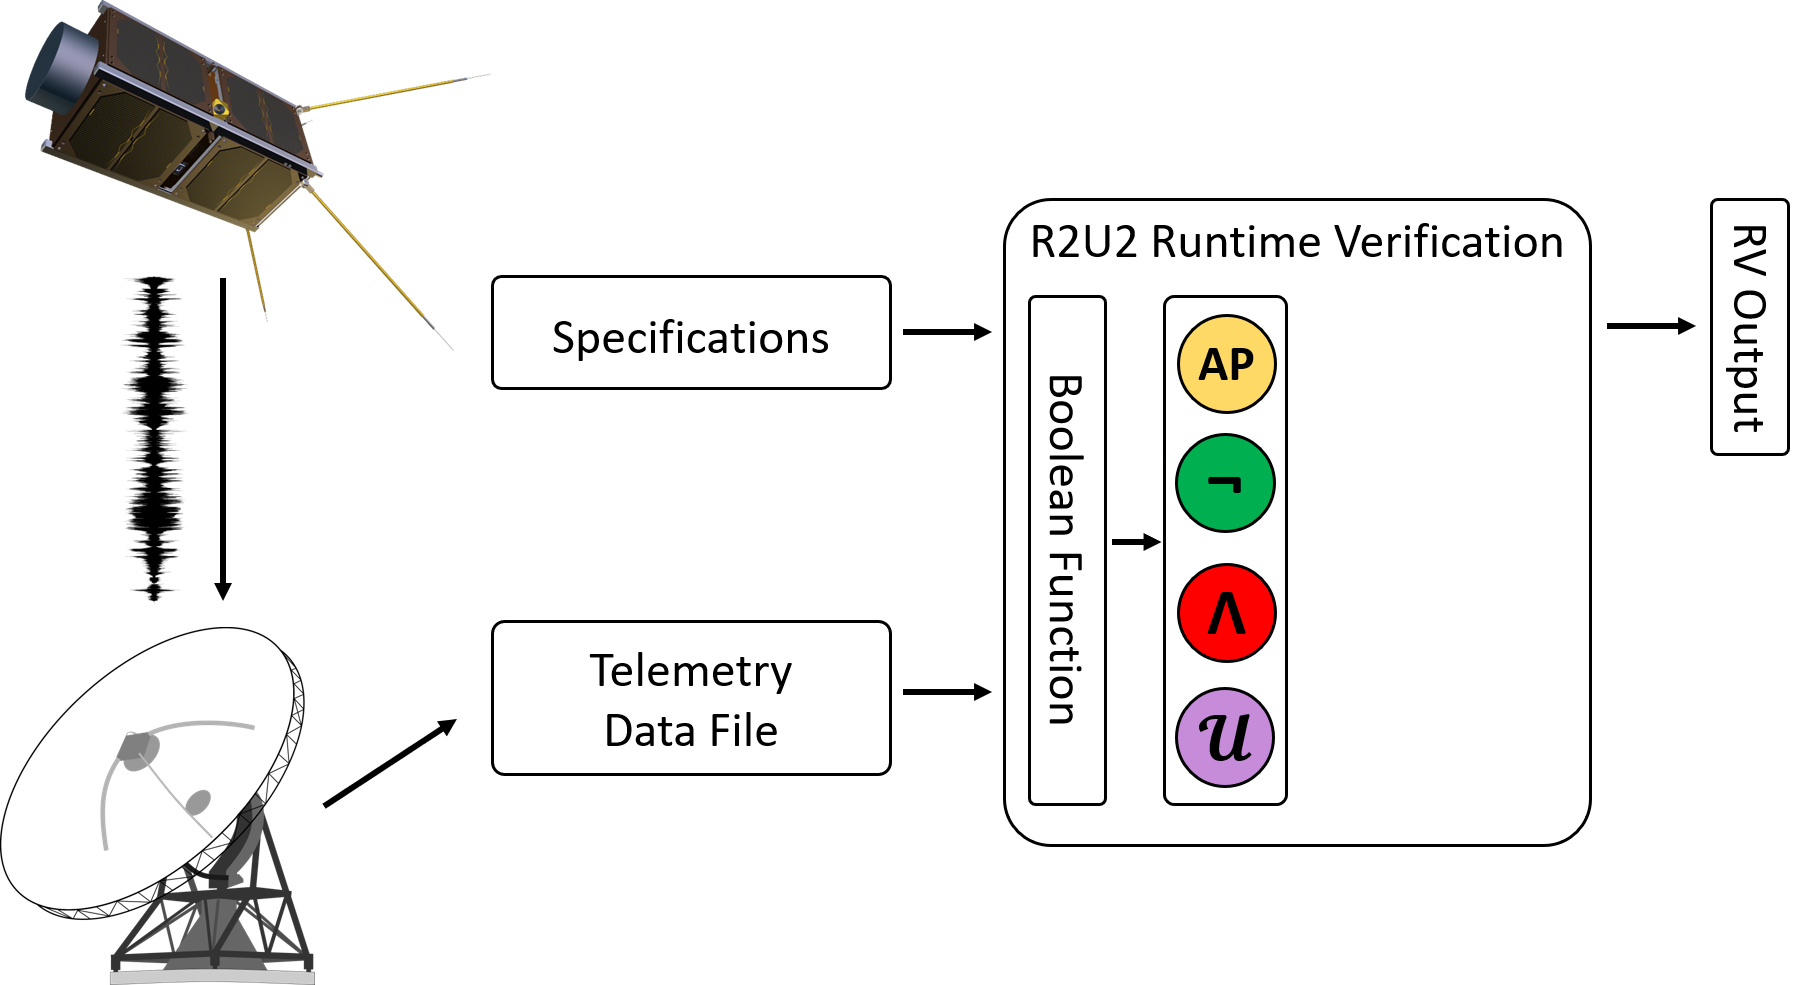
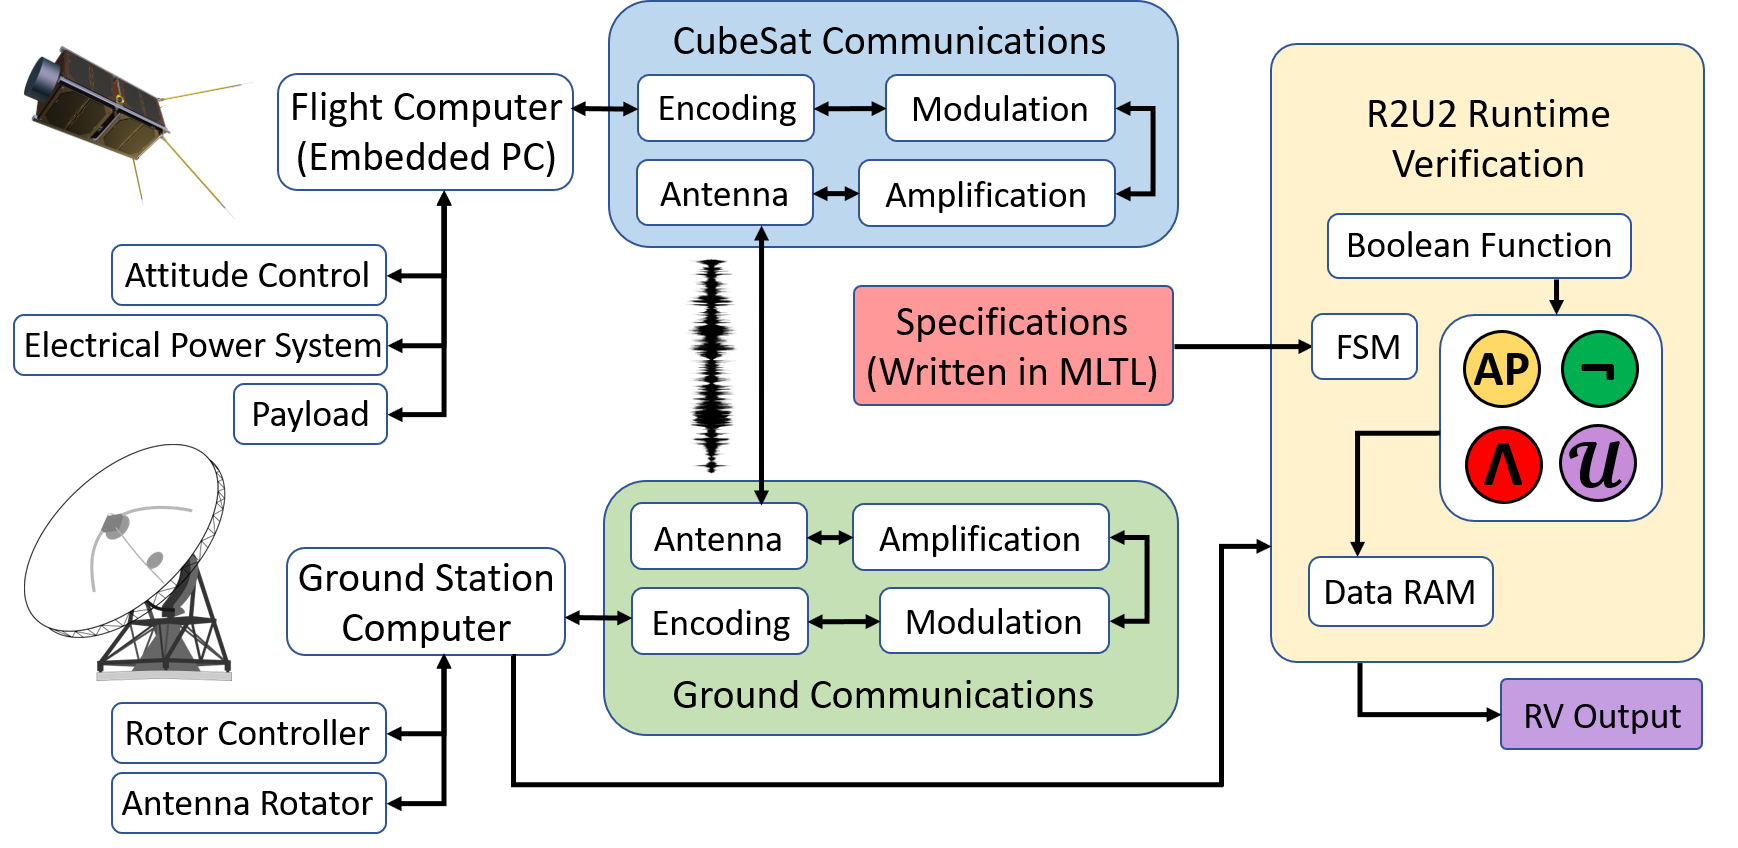
Updating abstract with introductory paragraphs and new figure.

diff --git a/main.tex b/main.tex
@@ -9,7 +9,7 @@
 \usepackage{longtable,tabularx}
 \setlength\LTleft{0pt} 
 
-\title{Formal Specification of Small Satellite Telemetry Variables}
+\title{A Case Study in Formal Specification and Runtime Verification of a CubeSat Communications System}
 
 \author{Zachary A. Luppen \footnote{Ph.D. student, Aerospace Engineering, Iowa State University, Ames, IA, 50010, USA.}}
 %\affil{Iowa State University, Ames, Iowa, 50011, USA.}
@@ -18,32 +18,17 @@
 \author{Dae Young Lee \footnote{Assistant Professor, Aerospace Engineering, Iowa State University, Ames, IA, 50010, USA.}}
 \affil{Iowa State University, Ames, Iowa, 50011, USA.}
 
-%% Outline
-
-%% Introduction
-% Discuss CubeSat challenges.
-% Importance of system health monitoring.
-% Introduce formal methods.
-
-%% Analysis
-% Provide a generic description of CubeSat telemetry parameters.
-% Talk about specifying parameters.
-% Describe how data is collected from CubeSat, decoded, saved.
-% Detail how we can run this through R2U2 to better understand performance.
-
-%% Discussion
-% Analysis of telemetry data can help us better monitor system health. Understand faults.
-% During testing, can help diagnose potential problems and validate system performance.
-
-%% Conclusion
-% Formal methods are helpful for EVERYTHING
-
 \begin{document}
 
 \maketitle
 
 \begin{abstract}
-This paper introduces a methodology of utilizing sample CubeSat telemetry data to formally specify system status. A dataset of typically desired CubeSat telemetry variables is assembled by reviewing previous missions. These variables are then listed according to their representation and requirement. Formal specifications are written in Mission-Time Linear Temporal Logic (MLTL) using these variables and their threshold values to describe desired behavior of CubeSats. Test data of these parameters are then run through the Realizable Responsive Unobtrusive Unit (R2U2) system health management tool for verification. Our results show the applicability of formal methods to a single aspect of CubeSat, and how they can be used to verify system performance and aid in reliable design.
+
+CubeSats are garnering a lot of attention from governmental, commercial and academic research communities due to their cheap price and easy accessibility to space. Although a CubeSat offers the potential to replace large and complex satellites for various space missions, developing a high-integrity platform that can fly in space requires robust software performance. The communications system of a CubeSat -- and any other spacecraft mission for that matter -- is absolutely vital to mission success. However, failed communications systems are commonplace for CubeSat projects and are one of the leading issues these missions face both now and in the future. Motivated by the large number of CubeSat communications failures, in this project we propose to apply formal specification and runtime verification to a real, full-scale CubeSat communications system. We develop a reference set of CubeSat communications fault specifications in mission-time linear temporal logic (MLTL) that designers can reference in future missions. We elucidate the applications of formal specification of a CubeSat system and its subsystems, creating a distributed hierarchy of specifications and highlighting the system's complexity. We design a configuration using the Realizable Responsive Unobtrusive Unit (R2U2) to demonstrate how performance of a CubeSat communications system can be evaluated in real-time. We experiment with fault detection in the domains of satellite sensor accuracy, signal strength and expected Doppler shift, and signal acquisition.
+
+%THIS TEXT IS A PLACEHOLDER. In this paper, we introduce a methodology for formally specifying and performing runtime verification of a CubeSat communications system. Motivated by the large number of CubeSat communications failures, we provide a reference set of fault specifications that can be used to aid in design of communications subsystems. We elucidate the applications of formal specification of a CubeSat system and its subsystems, creating a distributed hierarchy of specifications and highlighting their complexity. We use formal techniques with a non-simplified CubeSat communications system to evaluate system performance and provide lessons learned for other designers.
+
+%This paper introduces a methodology of utilizing sample CubeSat telemetry data to formally specify system status. A dataset of typically desired CubeSat telemetry variables is assembled by reviewing previous missions. These variables are then listed according to their representation and requirement. Formal specifications are written in Mission-Time Linear Temporal Logic (MLTL) using these variables and their threshold values to describe desired behavior of CubeSats. Test data of these parameters are then run through the Realizable Responsive Unobtrusive Unit (R2U2) system health management tool for verification. Our results show the applicability of formal methods to a single aspect of CubeSat, and how they can be used to verify system performance and aid in reliable design.
 \end{abstract}
 
 %%%%%%%%%%%%%%%%%%%%%
@@ -54,61 +39,48 @@ This paper introduces a methodology of utilizing sample CubeSat telemetry data t
 \section{Introduction}
 %%%%%%%%%%%%%%%%%%%%%
 
-CubeSats are getting a lot of attention from many research communities due to their cheap price and easy accessibility to space \cite{cubesat101}.
-%
-Although a CubeSat offers the potential to replace large and complex satellites for various space missions, novel technology requires robust software performance.
-% Need discussion.
-This is difficult to implement for these small-scale missions and many failures (either partial or entire missions) have occurred \cite{alanazi2018, Improving2017}.
-% 
-All subsystems of a CubeSat are a combination of hardware and software components built on an embedded system, and so their design needs to consider characteristics such as real-time response, reactivity with other subsystems, minimized software with optimal data processing speeds, safety, reliability and nominal performance in the harsh environment of space.
-%
-All of these factors, coupled with CubeSat missions having relatively low budgets and fast turnaround times, increase the chances of CubeSat mission failure \cite{alanazi2018, Improving2017}.\\
+Over the past decade, the use of small satellites (hereafter referred to as CubeSats) by academic, governmental, commercial as well as amateur entities has grown dramatically \cite{cubesat101,Poghosyan2016,Villela2019}. Their relatively low cost and fast turnaround times make CubeSats ideal projects for accessing and experimenting in space \cite{cubesat101}. As of June 2020, over 1,300 CubeSats have been launched into space \cite{Kulu2020}. While these types of missions have limited capabilities and will not replace flagship missions built by such agencies as NASA and ESA, the use of CubeSats is only expected to rise in the coming years \cite{Improving2017,cubesat101}. The low cost and short production times for these missions are appealing to developers, but they also act as constraints for these projects. Although CubeSats offer a scaled-down, simplified platform for developers, they still experience many of the same problems that larger satellites have \cite{Improving2017}. Flaws in design, workmanship, software, low reliability of hardware -- usually commercial off-the-shelf (COTS) -- components, lack of adequate testing and communications failures are among a few of the many problems experienced with building CubeSats \cite{Improving2017}. Some of these issues can be attributed to the cost and time constraints, such as parts quality, testing and design flaws. Other problems are inherent with spacecraft projects, and will be faced by developers no matter the cost or time spent working on the mission.\\
+
+Communications system failures are currently one of the most commonly widespread problems experienced by CubeSat developers \cite{Improving2017,Langer2016}. The communications system of a CubeSat -- and any other spacecraft mission for that matter -- is absolutely vital to mission success. While a CubeSat could be powered on properly and collecting data to perform invaluable science, a failure to communicate that information back to the ground makes the entire mission pointless. These systems are crucial to their missions, so good system performance is vital. Of the typical CubeSat subsystems however, communications systems are decently complex and tend to fail more \cite{Improving2017,cubesat101}. Failures can be attributed to lack of experience, poor design, incorrect link budgeting (used to guide design), electrical failures, and several other causes. With the growing popularity of CubeSats, it is important that methods be developed to aid in the design and reliability of their communications systems.\\
+
+%%%%%%%%%%%%%%%%%%%%%%%%%%%%%%%%%%%%%%%%%%%%%%%%%%%%%%%%%%%%%%%%%%%%%%%%%%%%%
+%%%%%%%%%%%%%%%%%%%%%%%%%%%%%%%%%%%%%%%%%%%%%%%%%%%%%%%%%%%%%%%%%%%%%%%%%%%%%
+\begin{figure}[!ht]
+%\centering
+\includegraphics[width=1.0\textwidth]{Fig/SciTech1.png}
+\caption{A representation of how formal methods would be applied during the flight stage of a CubeSat mission. Telemetry is sent by the CubeSat and received by the ground station. The telemetry data then gets fed into the Realizable Responsive Unobtrusive Unit (R2U2) tool and the data gets run against the specifications defined by the mission engineers. R2U2 then outputs results describing which specifications were met or not met.}
+\label{Diagram}
+\end{figure}
+%%%%%%%%%%%%%%%%%%%%%%%%%%%%%%%%%%%%%%%%%%%%%%%%%%%%%%%%%%%%%%%%%%%%%%%%%%%%%
+%%%%%%%%%%%%%%%%%%%%%%%%%%%%%%%%%%%%%%%%%%%%%%%%%%%%%%%%%%%%%%%%%%%%%%%%%%%%%
+
+Testing
+
+%CubeSats are getting a lot of attention from multiple research communities due to their cheap price and easy accessibility to space \cite{cubesat101}. Although a CubeSat offers the potential to replace large and complex satellites for various space missions, novel technology requires robust software performance. % Need discussion.
+%This is difficult to implement for these small-scale missions and many failures (either partial or entire missions) have occurred \cite{alanazi2018, Improving2017}. All subsystems of a CubeSat are a combination of hardware and software components built on an embedded system, and so their design needs to consider characteristics such as real-time response, reactivity with other subsystems, minimized software with optimal data processing speeds, safety, reliability and nominal performance in the harsh environment of space. All of these factors, coupled with CubeSat missions having limitations such as relatively low budgets and fast turnaround times, increase the chances of CubeSat mission failure \cite{alanazi2018, Improving2017}.\\
 % Why budget and fast turnabround make mission fail?
 
-Issues with CubeSat missions take place at all stages, and are very broad in nature \cite{Improving2017}.
-%
-Flaws in design, workmanship, software, low reliability of hardware -- usually commercial off-the-shelf (COTS) -- components, lack of adequate testing and communications failures are among a few of the many problems experienced with building CubeSats, as is the case for larger satellites \cite{Improving2017}.
-%
-Even in decent shape, CubeSats can still experience faults, memory leaks, bad data collections, and other issues inherent with embedded systems. For this reason, collecting telemetry from any spacecraft is a necessity.
-%
-Aside from comprising the data collected from an onboard payload, typical CubeSat telemetry consists of measurements of the power systems, on-board flight computer (FCPU), attitude, determination and control system (ADCS) and communications. Telemetry collection is the system health monitoring that allows operators to understand, to a degree, how the spacecraft is performing.\\
+%Issues with CubeSat missions take place at all stages, and are very broad in nature \cite{Improving2017}. Flaws in design, workmanship, software, low reliability of hardware -- usually commercial off-the-shelf (COTS) -- components, lack of adequate testing and communications failures are among a few of the many problems experienced with building CubeSats, as is the case for larger satellites \cite{Improving2017}. Even in decent shape, CubeSats can still experience faults, memory leaks, bad data collections, and other issues inherent with embedded systems.\\
 
-System health monitoring is useful in that we can know what various sensors on the spacecraft are measuring, but how do we know that those values are correct? How do we know the sensors on the craft are as accurate as the manufacturers say they are? How do we know if the spacecraft is actually operating as intended? Answering these sorts of questions is one of the goals of the field of formal methods. Formal methods are a collection of mathematical techniques used to improve the reliability of systems \cite{Peled2019,Bjrner2014}. While there are many different techniques and tools developed to specify, model and verify certain systems, there have not as yet been any methods or tools developed specifically for CubeSat missions.\\
+%The communications system of a CubeSat -- and any other spacecraft mission for that matter -- is absolutely vital to mission success. While a CubeSat could be powered on properly and collecting data to perform invaluable science, a failure to communicate that information back to the ground makes the entire mission pointless. These systems are crucial to the mission, so good system performance is vital. Communications systems can be rather complex though, and a lack of experience with RF can hinder their design and performance. Failed communications systems are commonplace for CubeSat projects \cite{Improving2017,Langer2016} and one of the leading issues these missions face both now and in the future. Since CubeSat popularity is only expected to grow in the near future \cite{Improving2017}, communications subsystem failures on CubeSats need to be addressed promptly.\\
 
-In this document, we will demonstrate how formal methods can be used to complement CubeSat telemetry. We will first develop an example set of telemetry parameters that would be considered useful and sought-after information for a general CubeSat mission. For our purposes, we reference several past CubeSat and satellite missions to demonstrate what sort of system measurements are necessary in CubeSat telemetry. Then we will introduce formal specification and demonstrate how these parameters can be written into logic statements that compare the these parameters either against sensor bounds or expected output. A set of sample data collections is then generated, and we use the Realizable Responsive Unobtrusive Unit (R2U2) system health management tool to run this data against those specifications. Following this, we discuss our results and demonstrate the utility of formal specification and verification for CubeSat missions. We conclude by discussing the utility of applying formal methods to CubeSats in order to improve mission reliability and aid CubeSat developers in future mission designs.
+%To aid in communications system design and performance analysis, we apply formal specification and runtime verification to a non-simplified CubeSat communications system. These techniques stem from the field of formal methods, a set of mathematically rigorous techniques used in the development of software and hardware systems. These techniques have been used in many fields, particularly the aviation industry and in air traffic control systems \cite{GCMTR16,DRR17}, but very sparsely in the CubeSat field except for better understanding of the global positioning system (GPS) and GLObal NAvigation Satellite System (GLONASS) \cite{peng2013}. While CubeSat systems are complex and offer many opportunities for applying these techniques, as of yet nobody has done so. Motivated by the large number of CubeSat failures, particularly due to communications system issues, we provide a reference set of Cubesat communications fault specifications that Cubesat designers can reference in future missions. We elucidate the applications of formal specification of a Cubesat system and its subsystems, creating a distributed hierarchy of specifications and highlighting their complexity. We use formal techniques with an non-simplified Cubesat communications system to evaluate system performance and provide lessons learned for other designers.\\
 
+%Before performing design-time and run-time verification, the system must first be described using specifications. A specification describes the desired performance of some aspect of a system. Since we intend to focus on the CubeSat and ground station communications system, our specifications relate to operations of it. We identify the needs of the communications system, particularly with aspects involving antenna pointing, transmit/receive operations, measurement of parameters during radio operation, and CubeSat communications monitoring, among others. Our specifications are written using Mission-time Linear Temporal Logic (MLTL) \cite{RRS14,LVR19}. MLTL has been used in many industrial case studies \cite{RRS14,GRS14,SRRMMI15,RSI15,SMR15,SMR16,MRS17}, and was the official logic of the 2018 Runtime Verification Benchmark Competition \cite{RVBC2018}. Many specifications from other case studies, in logics such as MTL \cite{AH90} and STL \cite{MN04}, can be represented in MLTL. 
+%We intuitively relate MLTL to LTL and MTL as follows:
+%(1) MLTL formulas are LTL formulas with bounded intervals over temporal operators, and interpreted over finite traces.
+%(2) MLTL formulas are MTL formulas without any unbounded intervals, and interpreted over finite traces.\\
 
-% Let's think about the title of the second section.
-%%%%%%%%%%%%%%%%%%%%%
-\section{Development of CubeSat Telemetry Example}
-%%%%%%%%%%%%%%%%%%%%%
-% We will describe how we prepare our test data.
+%Since specification is the biggest bottleneck in the design of robust embedded systems \cite{Roz17}, and since formal specification can be a very enlightening activity for the system design process, we treat this as an activity unto itself. 
 
-We first consider information comprising typical CubeSat telemetry parameters. 
+%For this reason, collecting telemetry from any spacecraft is a necessity.
+%Aside from comprising the data collected from an onboard payload, typical CubeSat telemetry consists of measurements of the power systems, on-board flight computer (FCPU), attitude, determination and control system (ADCS) and communications. Telemetry collection is the system health monitoring that allows operators to understand, to a degree, how the spacecraft is performing.\\
 
-%%%%%%%%%%%%%%%%%%%%%
-\section{Formal Specification and Logic Statements}
-%%%%%%%%%%%%%%%%%%%%%
+%System health monitoring is useful in that we can know what various sensors on the spacecraft are measuring, but how do we know that those values are correct? How do we know the sensors on the craft are as accurate as the manufacturers say they are? How do we know if the spacecraft is actually operating as intended? Answering these sorts of questions is one of the goals of the field of formal methods. Formal methods are a collection of mathematical techniques used to improve the reliability of systems \cite{Peled2019,Bjrner2014}. While there are many different techniques and tools developed to specify, model and verify certain systems, there have not as yet been any methods or tools developed specifically for CubeSat missions.\\
 
+%In this document, we will demonstrate how formal methods can be used to complement CubeSat telemetry. We will first develop an example set of telemetry parameters that would be considered useful and sought-after information for a general CubeSat mission. For our purposes, we reference several past CubeSat and satellite missions to demonstrate what sort of system measurements are necessary in CubeSat telemetry. Then we will introduce formal specification and demonstrate how these parameters can be written into logic statements that compare the these parameters either against sensor bounds or expected output. A set of sample data collections is then generated, and we use the Realizable Responsive Unobtrusive Unit (R2U2) system health management tool to run this data against those specifications. Following this, we discuss our results and demonstrate the utility of formal specification and verification for CubeSat missions. We conclude by discussing the utility of applying formal methods to CubeSats in order to improve mission reliability and aid CubeSat developers in future mission designs.
 
-
-%%%%%%%%%%%%%%%%%%%%%
-\section{System Health Monitoring Using R2U2}
-%%%%%%%%%%%%%%%%%%%%%
-
-
-
-%%%%%%%%%%%%%%%%%%%%%
-\section{Discussion}
-%%%%%%%%%%%%%%%%%%%%%
-
-
-
-%%%%%%%%%%%%%%%%%%%%%
-\section{Conclusion}
-%%%%%%%%%%%%%%%%%%%%%
-
-
+\clearpage
 
 %%%%%%%%%%%%%%%%%%%%%
 \bibliography{References}
